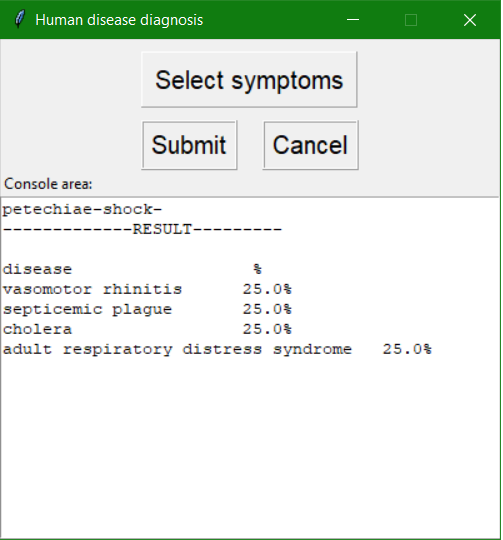
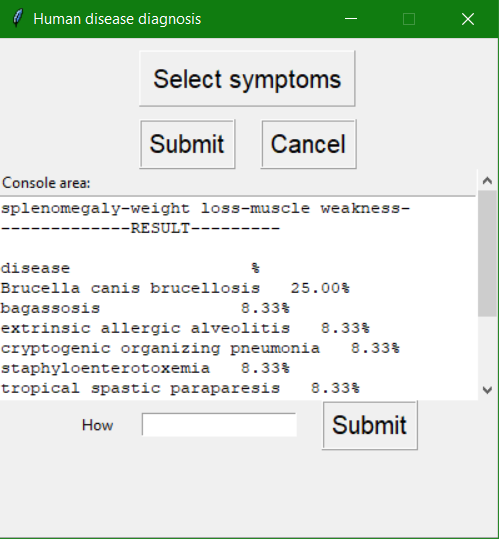
Aggiunte modifiche al Report per la funzionalità How

diff --git a/doc/Report.md b/doc/Report.md
@@ -1,5 +1,10 @@
 # Report
 
+* Membri del gruppo:
+	- Scaringi Raffaele matr.678182
+	- Sterlicchio Gioacchino matr.676716
+	- Sipone Mirco matr.683254
+
 ## Indice
 
 1. [Introduzione](#introduzione)
@@ -8,13 +13,8 @@
 4. [System Design](#system-design)
 	- [Stile architetturale](#stile-architetturale)
 	- [Commenti delle decisioni prese](#commenti-delle-decisioni-prese)
-
 5. [Manuale utente](#manuale-utente)
 6. [Processo di sviluppo e organizzazione del lavoro](#processo-di-sviluppo-e-organizzazione-del-lavoro)
-7. [Analisi retrospettiva](#analisi-retrospettiva)
-	- [Commenti positivi durante il pre post sviluppo](#commenti-positivi-durante-il-pre-post-sviluppo)
-	- [Commenti negativi durante il pre post sviluppo](#commenti-negativi-durante-il-pre-post-sviluppo)
-	- [Problematiche riscontrate](#problematiche-riscontrate)
 
 <ol>
 <li>
@@ -59,6 +59,7 @@ Per creare la base di conoscenza (KB) le classi prese in considerazione sono sta
 Il sistema software soddisfa i seguenti requisiti.
 * Visualizzare la malattia in base ai sintomi inseriti in input da un utente.
 * Visualizzare le malattie più probabili in base ai sintomi inseriti in input da un utente.
+* Spiegare come è stata trovata una malattia.
 
 </li>	
 <li>
@@ -105,6 +106,12 @@ Il sistema software soddisfa i seguenti requisiti.
 	la probabilità che l'utente abbia contratto la malattia m è denotata dalla legge |s(m)|/|S|. Per cui se sono stati inseriti tutti e soli i sintomi che 
 	caratterizzano la malattia m, è vero che ciò non esclude il fatto che vengano estratte anche altre malattie, ma sicuramente la probabilità di aver contratto
 	la malattia m sarà maggiore o alpiù uguale alla probabilità di aver contratto una qualsiasi altra malattia estratta.
+	
+  * How question
+  
+    Sono state implementate funzionalità per la spiegazione dei risultati. In particolare, sono state realizzate funzioni che permettano all'utente di sapere quali siano state le motivazioni del sistema per cui 
+	una determinata malattia sia stata rilevata come vera e sia stata comunicata in output all'utente. La metodologia adottata è stata quella delle how questions trattate nel ragionamento con vincoli.
+	Per cui si restituisce la clausola utilizzata per dimostrare la malattia richiesta dall'utente.
 
 
 
@@ -128,7 +135,10 @@ L'applicazione richiede l'utilizzo attraverso un' interfaccia utente (GUI). All'
 * Cliccando su 'Select Symptom' viene mostrata una finestra con una lista di sintomi tra cui scegliere.
 * Attraverso la console 'Console area' l'utente può visualizzare i sintomi da lui inseriti e successivamente le malattie che potrebbe avere.
 * Cliccando su 'Submit' i sintomi scelti dall'utente verranno utilizzati per dedurre le potenziali malattie mostrate a console.
-* Cliccando su 'Cancel' verrà cancellato il contenuto della console 
+* Cliccando su 'Cancel' verrà cancellato il contenuto della console
+* La parte in basso dell'interfaccia contiene un'area di testo per iserire i sintomi o le malattie per cui si vuole sapere come sono state dimostrate. 
+	
+	![](drawings/Spiegazione_malattia.PNG)
 
 Un esempio di task dell'utente: inseriti i sintomi, a console appaiono le possibili malattie correlate:
  
@@ -177,19 +187,6 @@ Il workflow utilizzato da ogni membro del team è stato il **Github Flow** in cu
 **10.** Ricevuta l'approvazione esplicita di almeno un componente del team, si è potuto procedere da GitHub al merge del nuovo branch con il master branch sul repository remoto.
 
 **11.** Se il merge su GitHub è andato a buon fine, per completare il lavoro, è stato cancellato il branch sul repository remoto (mediante interfaccia web di GitHub) e sul repository locale con la sequenza di comandi: `git checkout master, git pull e git branch -d <nome branch>`.
-
-</li>
-<li>
-
-## Analisi retrospettiva
-
-### Commenti positivi durante il pre-post sviluppo
-
-
-### Commenti negativi durante il pre-post sviluppo
-
-
-### Problematiche riscontrate
 
 </li>
 </ol>
